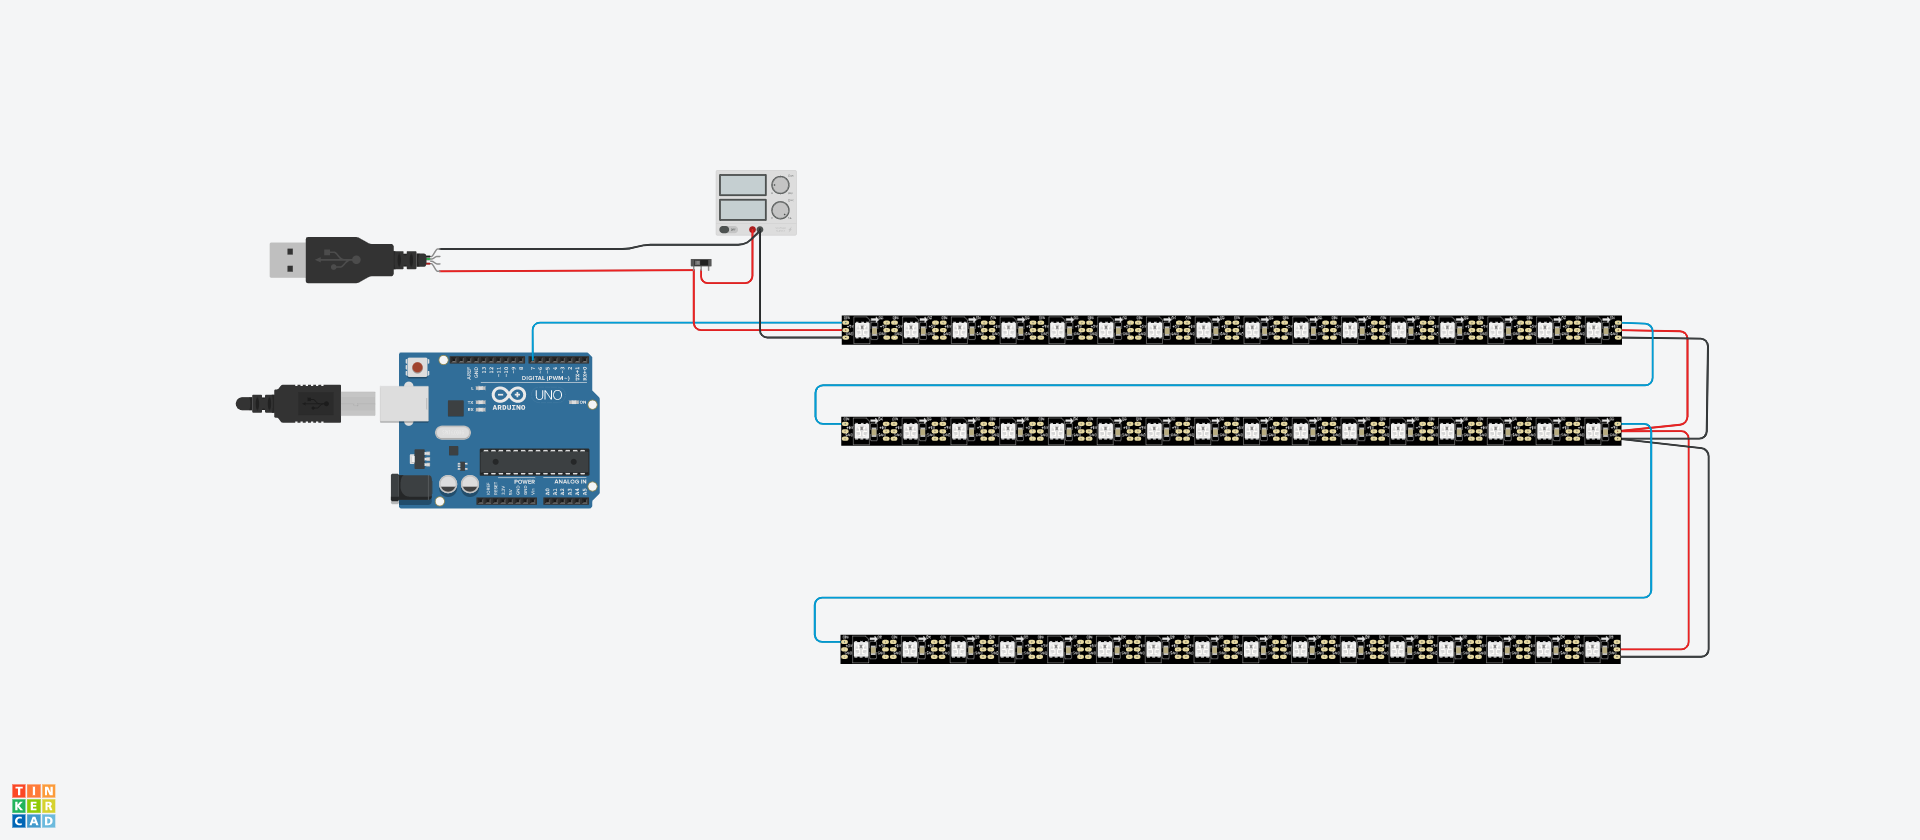
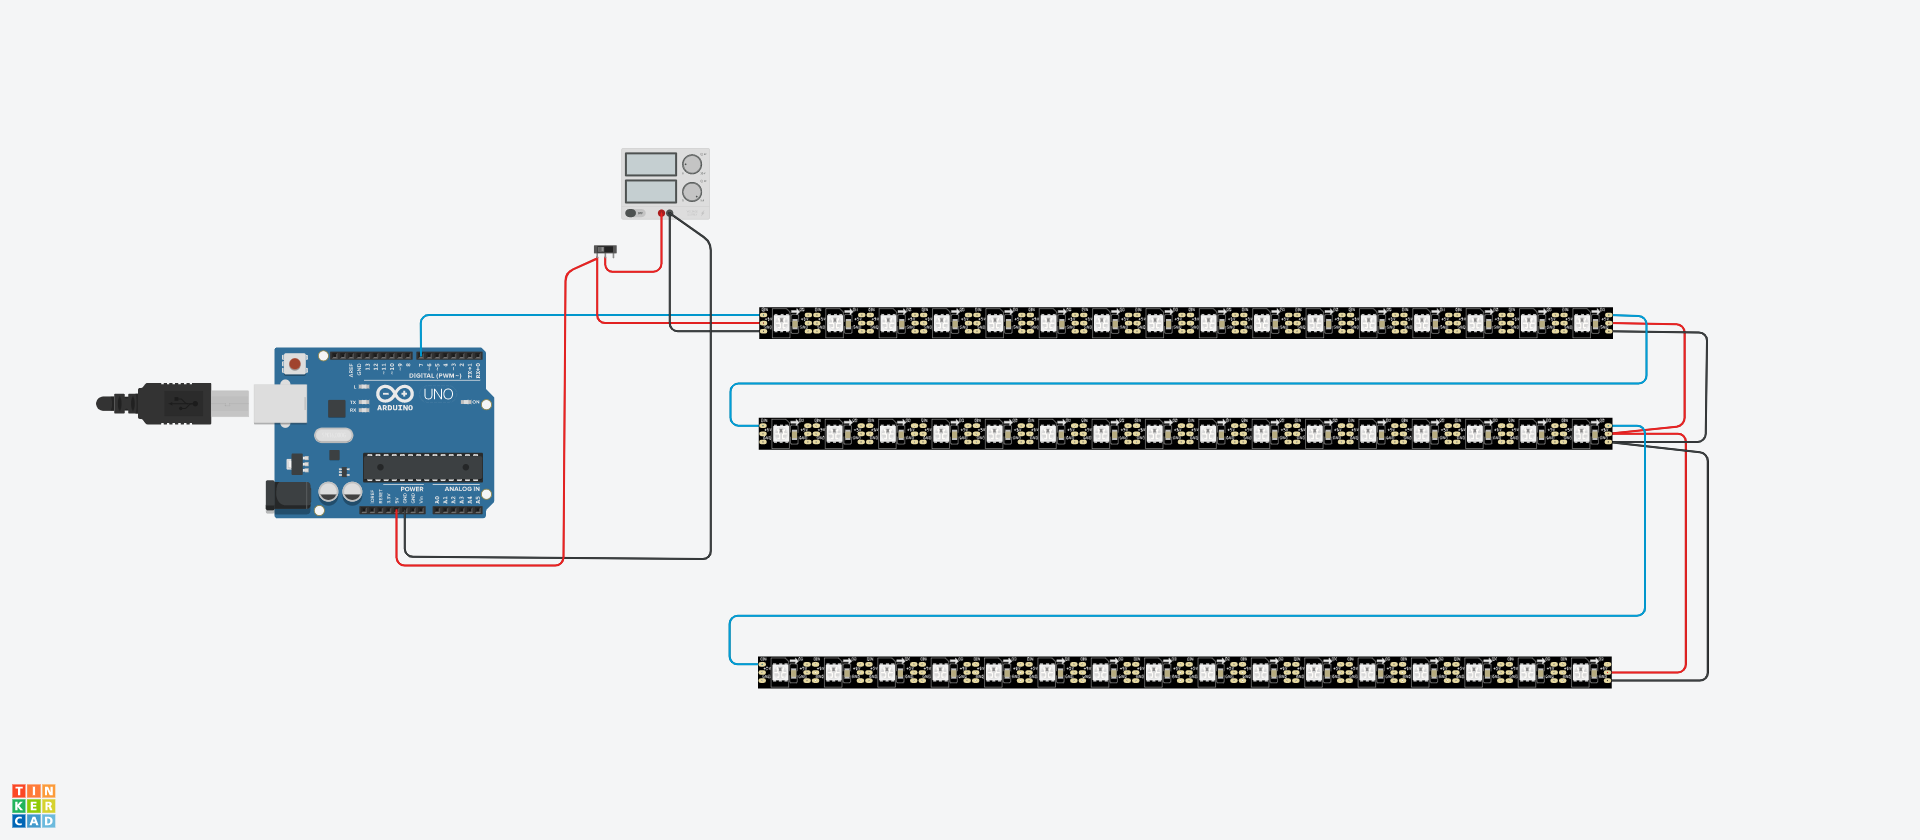
connected the 5V en GND from arduino to power supply in schematic

Changed region(s): [[0.0312, 0.1548, 0.9062, 0.8357], [0.125, 0.2786, 0.25, 0.3405], [0.1875, 0.65, 0.375, 0.681]]

diff --git a/session4/README.md b/session4/README.md
@@ -98,11 +98,22 @@ A component that converts voltage to another voltage.
 
 ### Assignment 
 
-Create a circuit and make some calculations
+- Create a circuit and make some calculations
+
+#### Project: LED Matrix Display
+
+I decided to work further on my led matrix display I made last year.
+I'm using 16x22 LEDS using the 2812B ledstrip, which only uses one datapin to program. 
+For this project and the calculations, I'll be using the Arduino. But later I would like to use a raspberry pi.
 
 <p align="center">
     <img src="images/screenshot_project.png" width="900" alt="led matrix display">
 </p>
+
+
+##### Calculation
+
+According to the datasheet of the WS2812B, it uses 5V as the power supply voltage.
 
 
 
